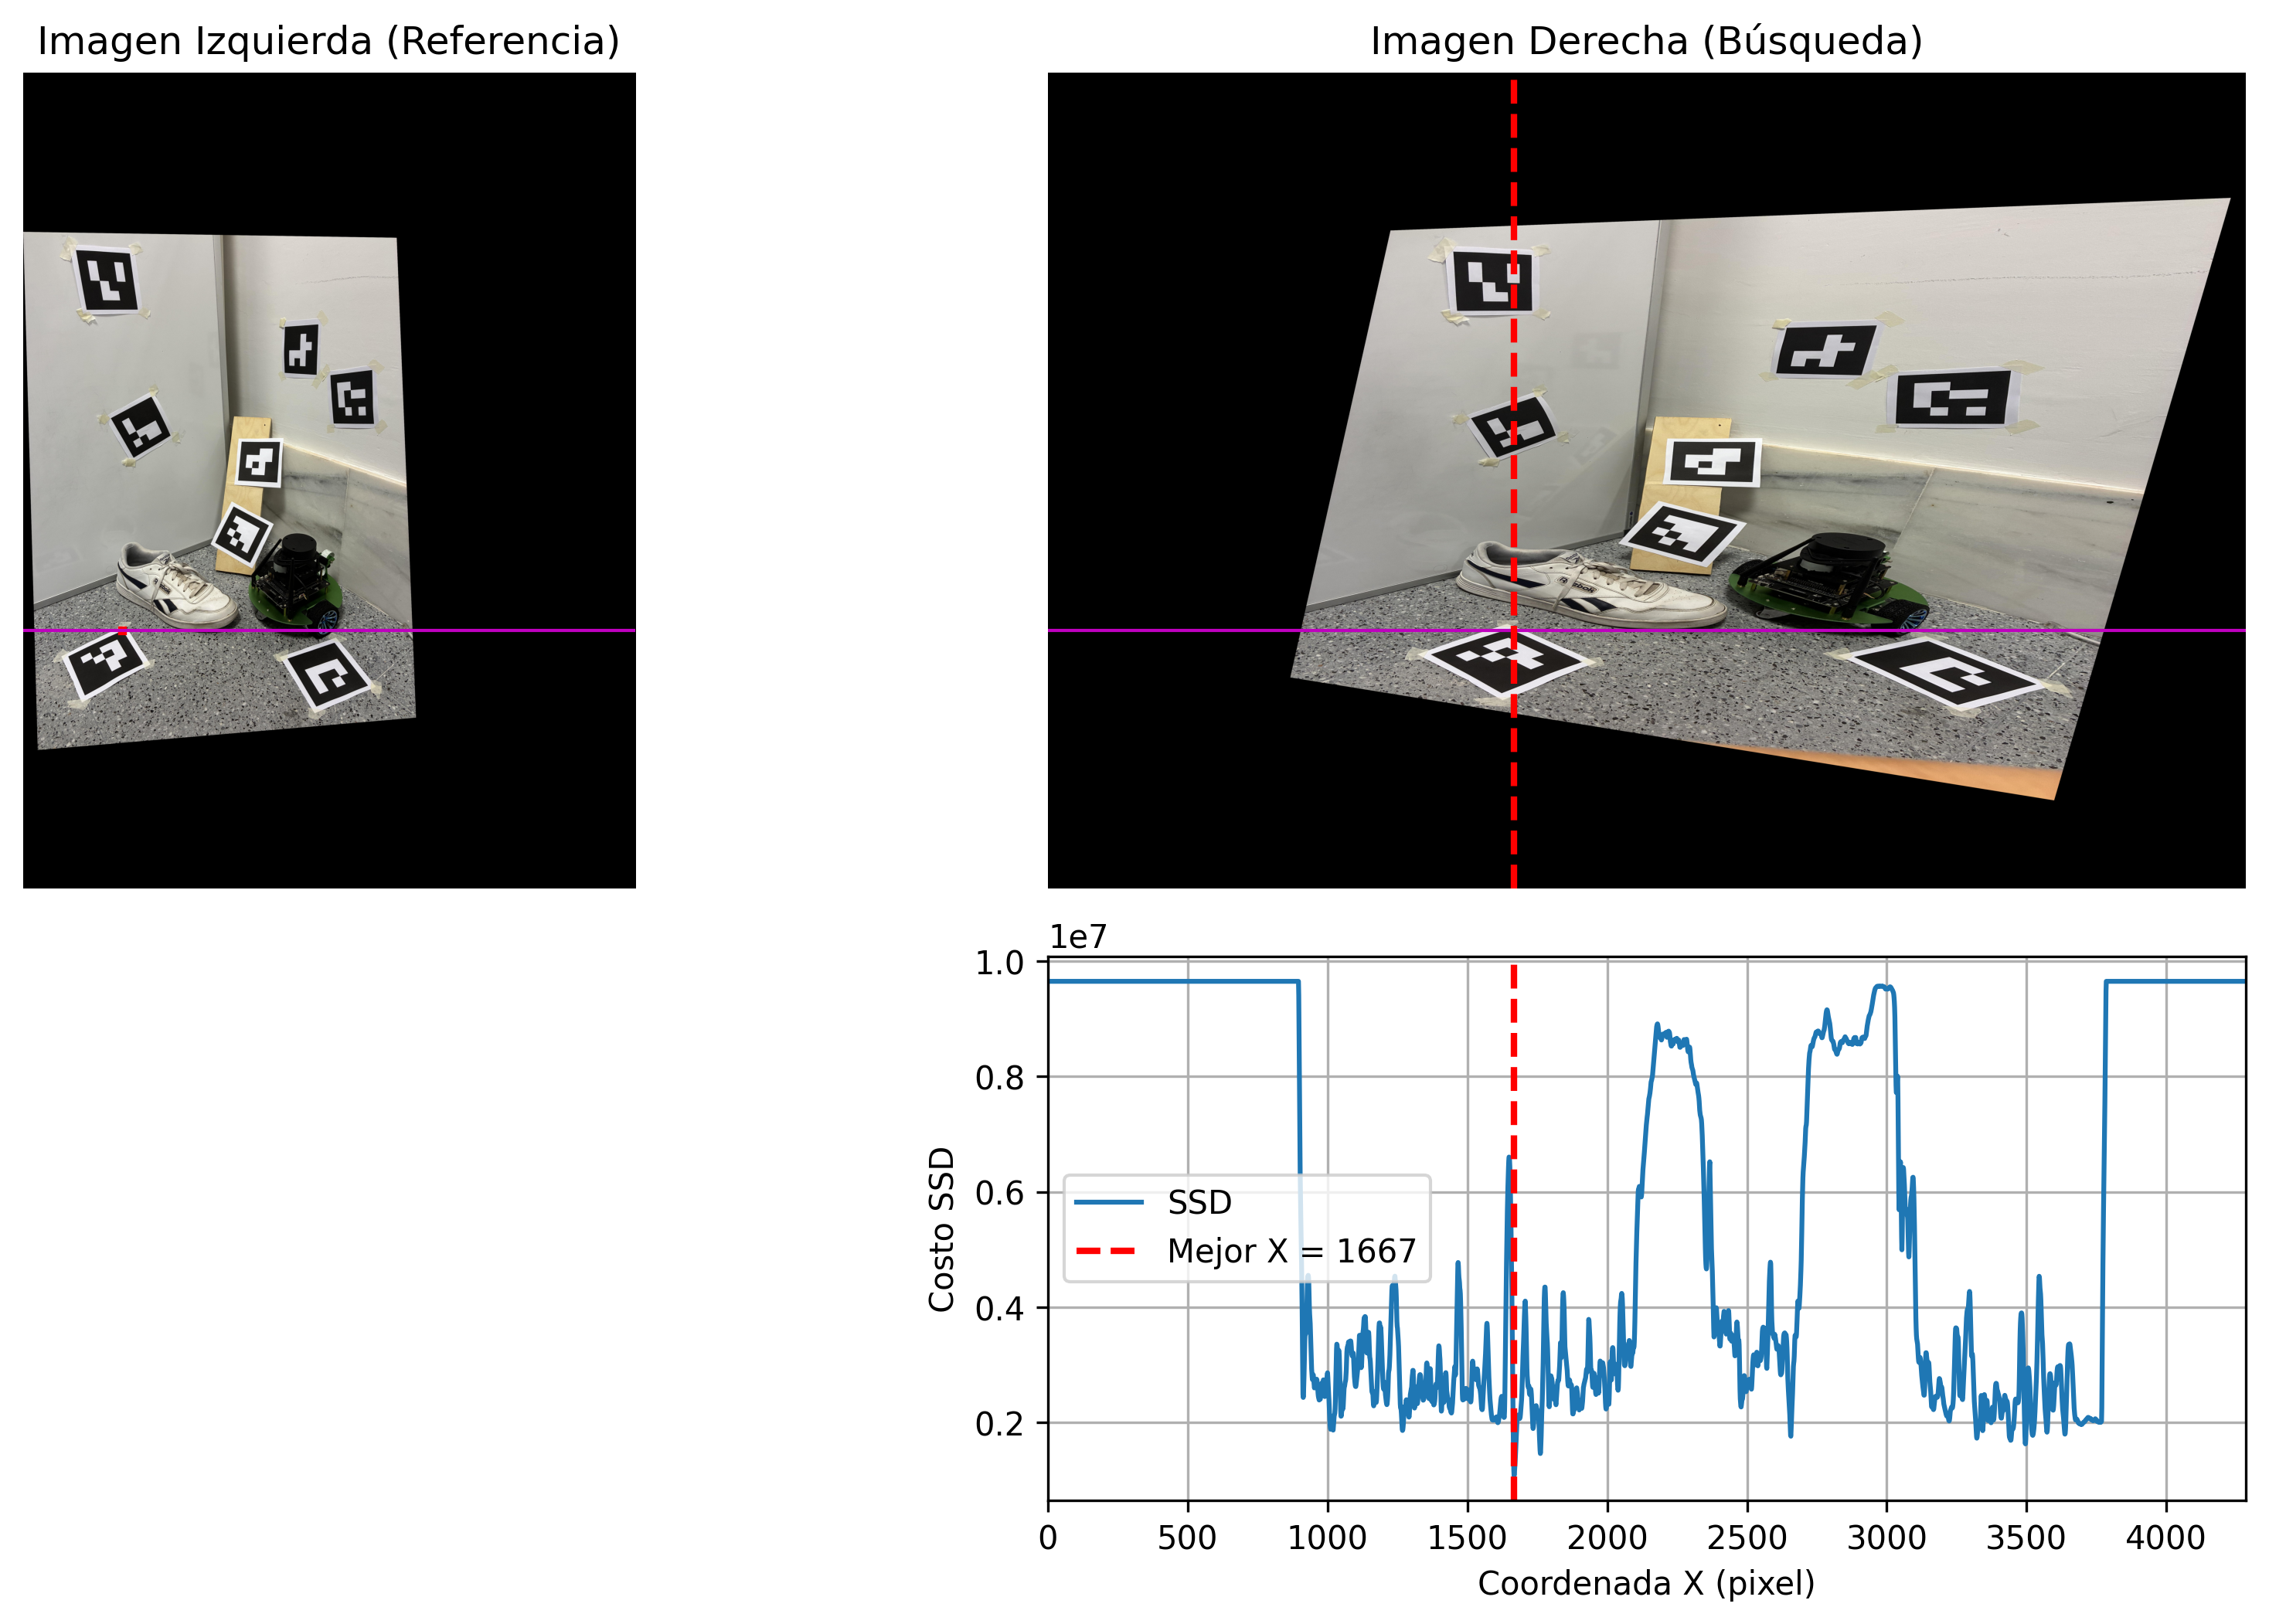
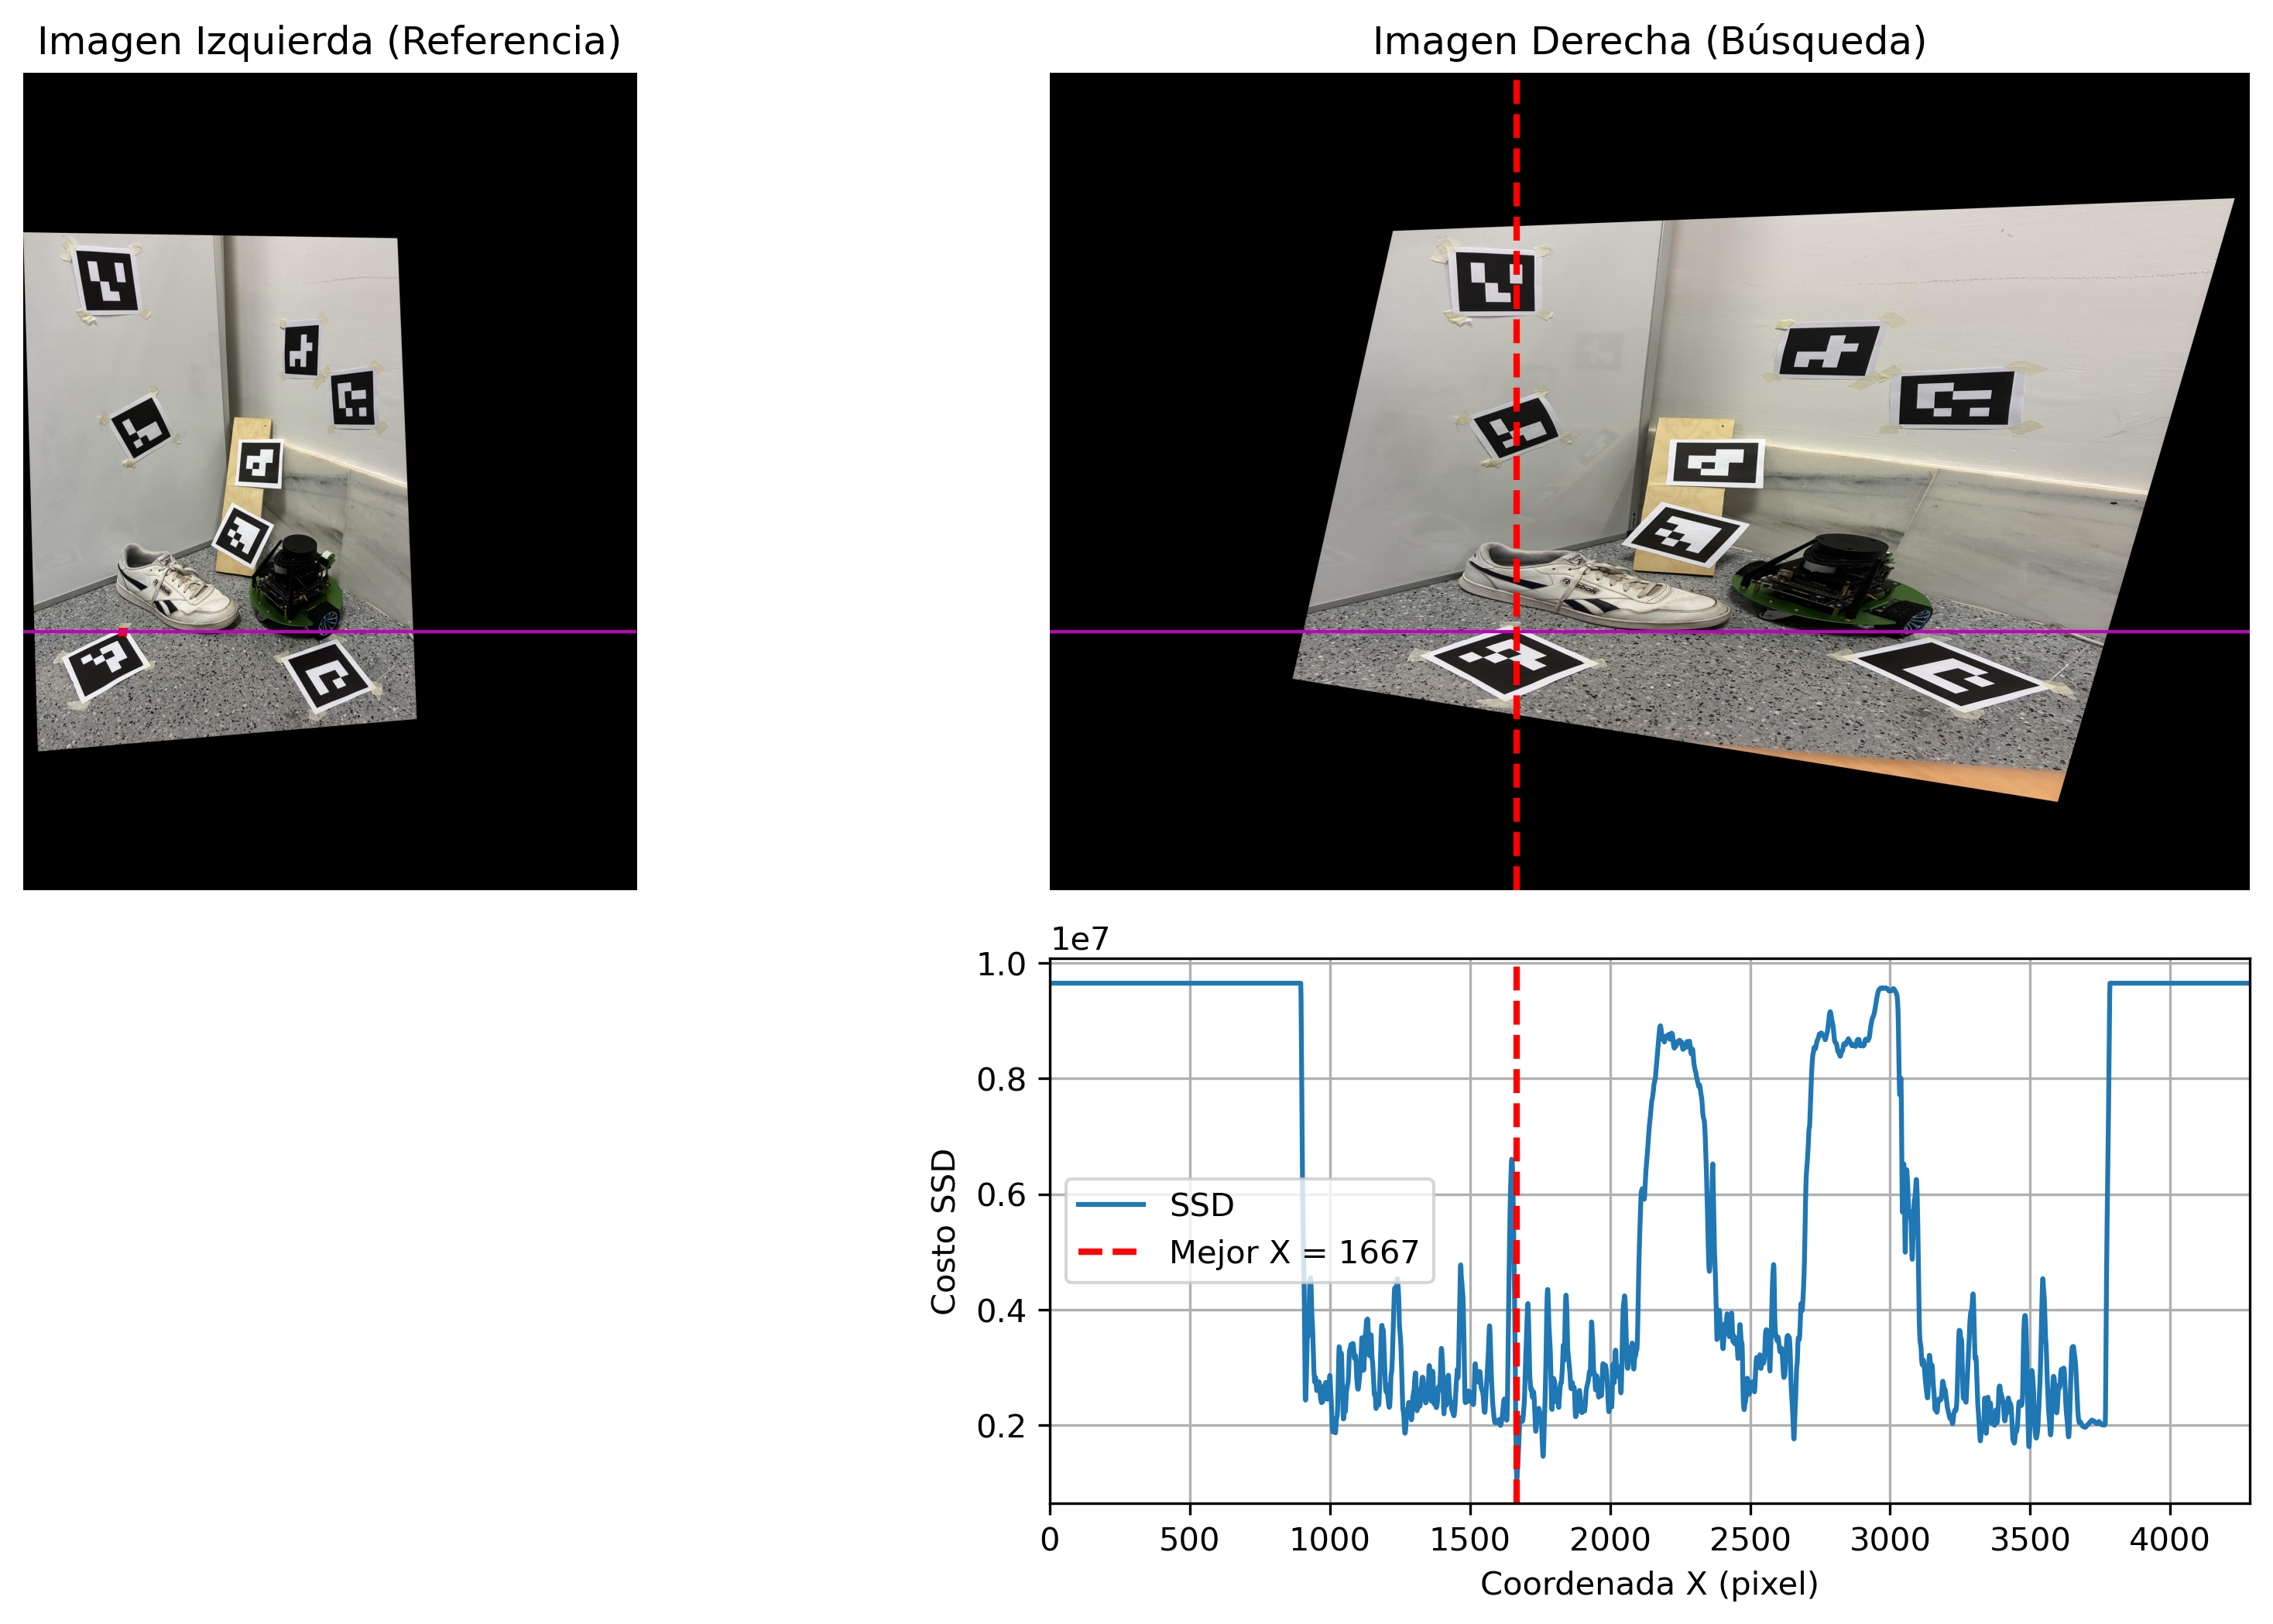
Actu

diff --git a/reconstruccion.py b/reconstruccion.py
@@ -13,6 +13,7 @@ import numpy as np
 import cv2
 import matplotlib.pyplot as plt
 from mpl_toolkits.mplot3d import Axes3D  # noqa: F401
+from mpl_toolkits.mplot3d.art3d import Poly3DCollection
 import config
 import os
 from scipy.optimize import least_squares
@@ -301,49 +302,162 @@ def error_reproyeccion(K, R, t, puntos_3d, pts1, pts2):
 
 
 # ---------------------------------------------------------------------------
-# 5. Visualización 3D
+# 5. Visualización 3D  (versión académica con agrupación por ArUco)
 # ---------------------------------------------------------------------------
 
-def visualizar_reconstruccion(puntos_3d, R, t, titulo="Reconstrucción 3D"):
+# Paleta de colores distinguibles para los IDs de ArUco
+_ARUCO_COLORS = [
+    '#e6194b', '#3cb44b', '#4363d8', '#f58231', '#911eb4',
+    '#42d4f4', '#f032e6', '#bfef45', '#fabed4', '#469990',
+    '#dcbeff', '#9A6324', '#800000', '#aaffc3', '#808000',
+    '#ffd8b1', '#000075', '#a9a9a9',
+]
+
+
+def visualizar_reconstruccion_3d(puntos_3d, aruco_ids, R, t_escalada,
+                                  titulo="Reconstrucción 3D métrica"):
     """
-    Visualiza la nube de puntos 3D reconstruida junto con las posiciones
-    de las dos cámaras.
+    Genera un gráfico 3D de calidad académica para un informe PDF.
+
+    Parámetros
+    ----------
+    puntos_3d : np.ndarray (Nx3)
+        Puntos 3D triangulados y ya escalados a metros.
+    aruco_ids : np.ndarray (N,)
+        ID de ArUco correspondiente a cada punto (misma longitud que puntos_3d).
+    R : np.ndarray (3x3)
+        Rotación de la cámara 2 respecto a la cámara 1.
+    t_escalada : np.ndarray (3x1)
+        Vector de traslación escalado a metros.
+    titulo : str
+        Título del gráfico.
     """
-    fig = plt.figure(figsize=(12, 9))
+
+    fig = plt.figure(figsize=(14, 10))
     ax = fig.add_subplot(111, projection='3d')
 
-    # Nube de puntos
-    ax.scatter(puntos_3d[:, 0], puntos_3d[:, 1], puntos_3d[:, 2],
-               c='steelblue', marker='o', s=40, alpha=0.8, label='Puntos 3D')
+    # ------------------------------------------------------------------
+    # Nube de puntos agrupada por ArUco ID
+    # ------------------------------------------------------------------
+    unique_ids = np.unique(aruco_ids)
+    for idx, aid in enumerate(unique_ids):
+        color = _ARUCO_COLORS[idx % len(_ARUCO_COLORS)]
+        mask = aruco_ids == aid
+        pts = puntos_3d[mask]
+        ax.scatter(pts[:, 0], pts[:, 1], pts[:, 2],
+                   c=color, marker='o', s=60, alpha=0.9,
+                   edgecolors='k', linewidths=0.4,
+                   label=f'ArUco ID {aid}')
+        # Anotar las esquinas con números pequeños
+        for j, (x, y, z) in enumerate(pts):
+            ax.text(x, y, z, f' {j}', fontsize=7, color=color, alpha=0.7)
 
-    # Cámara 1 en el origen
-    ax.scatter(0, 0, 0, c='red', marker='^', s=200, label='Cámara 1')
+    # ------------------------------------------------------------------
+    # Cámara 1 — en el origen
+    # ------------------------------------------------------------------
+    ax.scatter(0, 0, 0, c='red', marker='^', s=250, zorder=5,
+               edgecolors='darkred', linewidths=1.2, label='Cámara 1 (origen)')
+
+    # ------------------------------------------------------------------
+    # Cámara 2 — centro óptico real  C₂ = −Rᵀ · t_escalada
+    # ------------------------------------------------------------------
+    C2 = (-R.T @ t_escalada).ravel()
+    ax.scatter(C2[0], C2[1], C2[2], c='blue', marker='^', s=250, zorder=5,
+               edgecolors='darkblue', linewidths=1.2, label='Cámara 2')
+
+    # ------------------------------------------------------------------
+    # Ejes de orientación de cada cámara  (R, G, B → X, Y, Z)
+    # ------------------------------------------------------------------
+    # Escala de los ejes proporcional a la escena
+    all_pts = np.vstack([puntos_3d, [[0, 0, 0]], [C2]])
+    escala_ejes = np.max(np.ptp(all_pts, axis=0)) * 0.12
+    if escala_ejes < 1e-6:
+        escala_ejes = 0.05
+
+    eje_labels = ['X', 'Y', 'Z']
+    eje_colors = ['r', 'g', 'b']
+
+    # Cámara 1 (identidad)
+    for eje, col, lbl in zip(np.eye(3), eje_colors, eje_labels):
+        ax.quiver(0, 0, 0, eje[0], eje[1], eje[2],
+                  length=escala_ejes, color=col, linewidth=2, arrow_length_ratio=0.15)
 
     # Cámara 2
-    C2 = (-R.T @ t).ravel()
-    ax.scatter(C2[0], C2[1], C2[2], c='green', marker='^', s=200,
-               label='Cámara 2')
-
-    # Ejes de la cámara 1
-    escala = np.max(np.abs(puntos_3d)) * 0.2
-    for eje, color_eje in zip(np.eye(3), ['r', 'g', 'b']):
-        ax.quiver(0, 0, 0, eje[0], eje[1], eje[2],
-                  length=escala, color=color_eje, linewidth=2)
-
-    # Ejes de la cámara 2
-    for eje, color_eje in zip(R.T, ['r', 'g', 'b']):
+    for eje, col in zip(R.T, eje_colors):
         ax.quiver(C2[0], C2[1], C2[2], eje[0], eje[1], eje[2],
-                  length=escala, color=color_eje, linewidth=2, alpha=0.6)
+                  length=escala_ejes, color=col, linewidth=2,
+                  alpha=0.6, arrow_length_ratio=0.15)
 
-    ax.set_xlabel('X')
-    ax.set_ylabel('Y')
-    ax.set_zlabel('Z')
-    ax.set_title(titulo)
-    ax.legend(loc='upper left')
+    # Línea base entre cámaras (baseline)
+    ax.plot([0, C2[0]], [0, C2[1]], [0, C2[2]],
+            'k--', linewidth=1.0, alpha=0.5, label='Baseline')
 
-    # Ajustar aspecto (robusto ante datos con rango pequeño)
-    all_pts = np.vstack([puntos_3d, [[0, 0, 0]], [C2]])
-    max_range = max(np.ptp(all_pts, axis=0)) * 0.6
+    # ------------------------------------------------------------------
+    # Planos de imagen simulados (frustums de cámara)
+    # ------------------------------------------------------------------
+    def _dibujar_frustum(ax, centro, R_cam, escala, color, alpha_face=0.12):
+        """
+        Dibuja un tronco de pirámide (frustum) simplificado:
+          - Un rectángulo (plano de imagen) delante de la cámara.
+          - 4 aristas desde el centro óptico a las esquinas del plano.
+
+        R_cam : columnas = ejes de la cámara en el mundo (3x3).
+        """
+        # Definir las 4 esquinas del plano de imagen en coordenadas locales
+        # de la cámara:  ±hw en X,  ±hh en Y,  +d en Z  (delante)
+        hw = escala * 0.55   # mitad del ancho
+        hh = escala * 0.40   # mitad del alto (ratio ~4:3)
+        d  = escala * 0.9    # distancia focal visual
+
+        esquinas_local = np.array([
+            [-hw, -hh, d],
+            [ hw, -hh, d],
+            [ hw,  hh, d],
+            [-hw,  hh, d],
+        ])
+
+        # Transformar al mundo: P_world = centro + R_cam @ P_local
+        esquinas_world = (R_cam @ esquinas_local.T).T + centro
+
+        # Dibujar el plano de imagen (polígono relleno semitransparente)
+        verts = [esquinas_world.tolist()]
+        poly = Poly3DCollection(verts, alpha=alpha_face, facecolors=color,
+                                edgecolors=color, linewidths=1.2)
+        ax.add_collection3d(poly)
+
+        # Aristas del frustum: centro → cada esquina
+        for corner in esquinas_world:
+            ax.plot([centro[0], corner[0]],
+                    [centro[1], corner[1]],
+                    [centro[2], corner[2]],
+                    color=color, linewidth=0.8, alpha=0.45)
+
+        # Contorno del plano de imagen (cerrar el rectángulo)
+        for i in range(4):
+            j = (i + 1) % 4
+            ax.plot([esquinas_world[i, 0], esquinas_world[j, 0]],
+                    [esquinas_world[i, 1], esquinas_world[j, 1]],
+                    [esquinas_world[i, 2], esquinas_world[j, 2]],
+                    color=color, linewidth=1.2, alpha=0.7)
+
+    # Cámara 1: R = I, centro en el origen
+    _dibujar_frustum(ax, np.array([0, 0, 0]), np.eye(3), escala_ejes, 'red')
+    # Cámara 2: R = R.T (columnas = ejes mundo), centro en C2
+    _dibujar_frustum(ax, C2, R.T, escala_ejes, 'blue')
+
+    # ------------------------------------------------------------------
+    # Etiquetas y título
+    # ------------------------------------------------------------------
+    ax.set_xlabel('X (metros)', fontsize=12, labelpad=10)
+    ax.set_ylabel('Y (metros)', fontsize=12, labelpad=10)
+    ax.set_zlabel('Z — Profundidad (metros)', fontsize=12, labelpad=10)
+    ax.set_title(titulo, fontsize=14, fontweight='bold', pad=20)
+    ax.legend(loc='upper left', fontsize=9, framealpha=0.85)
+
+    # ------------------------------------------------------------------
+    # Escala isométrica 1:1:1
+    # ------------------------------------------------------------------
+    max_range = np.max(np.ptp(all_pts, axis=0)) * 0.6
     if max_range < 1e-6:
         max_range = 1.0
     mid = np.mean(all_pts, axis=0)
@@ -351,17 +465,45 @@ def visualizar_reconstruccion(puntos_3d, R, t, titulo="Reconstrucción 3D"):
     ax.set_ylim(mid[1] - max_range, mid[1] + max_range)
     ax.set_zlim(mid[2] - max_range, mid[2] + max_range)
 
+    # En visión, Y apunta hacia abajo → invertir para que el suelo quede abajo
+    ax.invert_yaxis()
+
+    # Forzar aspecto igual en matplotlib ≥ 3.3
+    try:
+        ax.set_box_aspect([1, 1, 1])
+    except AttributeError:
+        pass  # versiones antiguas de matplotlib
+
     plt.tight_layout()
-    # Si no hay GUI, guardar la figura en output/
+
+    # ------------------------------------------------------------------
+    # Guardar o mostrar
+    # ------------------------------------------------------------------
     if not config.SHOW_GUI:
         outdir = config.ensure_output_dir('output')
-        save_path = titulo if os.path.isabs(titulo) or titulo.endswith('.png') else os.path.join(outdir, f"{titulo.replace(' ', '_')}.png")
+        if os.path.isabs(titulo) or titulo.endswith('.png'):
+            save_path = titulo
+        else:
+            save_path = os.path.join(outdir,
+                                     f"{titulo.replace(' ', '_')}.png")
         config.info(f"[INFO] Guardando visualización 3D en: {save_path}")
-        plt.savefig(save_path)
+        plt.savefig(save_path, dpi=200, bbox_inches='tight')
         plt.close(fig)
     else:
         config.info("[INFO] Mostrando visualización 3D...")
         plt.show()
+
+    # ------------------------------------------------------------------
+    # Verificación métrica por consola
+    # ------------------------------------------------------------------
+    primer_id = unique_ids[0]
+    mask_primer = aruco_ids == primer_id
+    pts_primer = puntos_3d[mask_primer]
+    if len(pts_primer) >= 2:
+        dist_lado = np.linalg.norm(pts_primer[0] - pts_primer[1])
+        print(f"\n[VERIFICACIÓN MÉTRICA] Distancia 3D comprobada en "
+              f"el marcador {primer_id} (esquina 0 → esquina 1): "
+              f"{dist_lado:.4f} metros")
 
 
 def _rodrigues_to_matrix(rvec):

diff --git a/main.py b/main.py
@@ -9,7 +9,7 @@ from rectificacion import rectificar_par_estereo, dibujar_lineas_horizontales
 from disparidad import calcular_error_vertical, calcular_mapa_disparidad, extraer_perfiles_disparidad
 from demostracion_ssd import demostrar_busqueda_ssd
 from geometria_epipolar import obtener_correspondencias_aruco, ransac_fundamental, calcular_esencial
-from reconstruccion import seleccionar_pose, error_reproyeccion, visualizar_reconstruccion, triangular_punto
+from reconstruccion import seleccionar_pose, error_reproyeccion, visualizar_reconstruccion_3d, triangular_punto
 
 K = np.array([[3954.809289, 0.0, 2133.663739], [0.0, 3956.467881, 2889.190270], [0.0, 0.0, 1.0]])
 
@@ -28,6 +28,7 @@ def main():
     # 3. Matriz Fundamental y Esencial
     F, mask = ransac_fundamental(pts1, pts2, umbral=args.ransac_threshold, max_iter=5000, marker_ids=p_ids)
     p1_in, p2_in = pts1[mask], pts2[mask]
+    p_ids_in = p_ids[mask]   # ArUco IDs filtrados por inliers RANSAC
     E = calcular_esencial(F, K)
     
     # 4. Triangulación
@@ -69,6 +70,9 @@ def main():
         guardar_errores_csv(outdir, len(X), p1_in, p2_in, reproj1, reproj2, err1_arr, err2_arr)
         dibujar_overlays_reproyeccion(img1, img2, outdir, len(X), p1_in, p2_in, reproj1, reproj2, err1_arr, err2_arr)
         guardar_resultados_json({'K': K.tolist(), 'err1': np.mean(err1_arr), 'err2': np.mean(err2_arr)}, outdir)
+
+    # Visualización 3D (siempre se ejecuta: en GUI muestra ventana, sin GUI guarda PNG)
+    visualizar_reconstruccion_3d(X, p_ids_in, R, t, titulo="Reconstrucción 3D métrica")
 
     # 5. Rectificación y dibujo de líneas horizontales
     img_rect1, img_rect2, R1, P1r, R2, P2r = rectificar_par_estereo(img1, img2, K, R, t)
@@ -117,7 +121,6 @@ def main():
     if config.SHOW_GUI:
         ratio = 1200 / img_rect_lines.shape[1]
         cv2.imshow("Rectificacion Perfecta", cv2.resize(img_rect_lines, None, fx=ratio, fy=ratio))
-        visualizar_reconstruccion(X, R, t, titulo="Reconstrucción 3D")
         cv2.waitKey(0)
         cv2.destroyAllWindows()
 